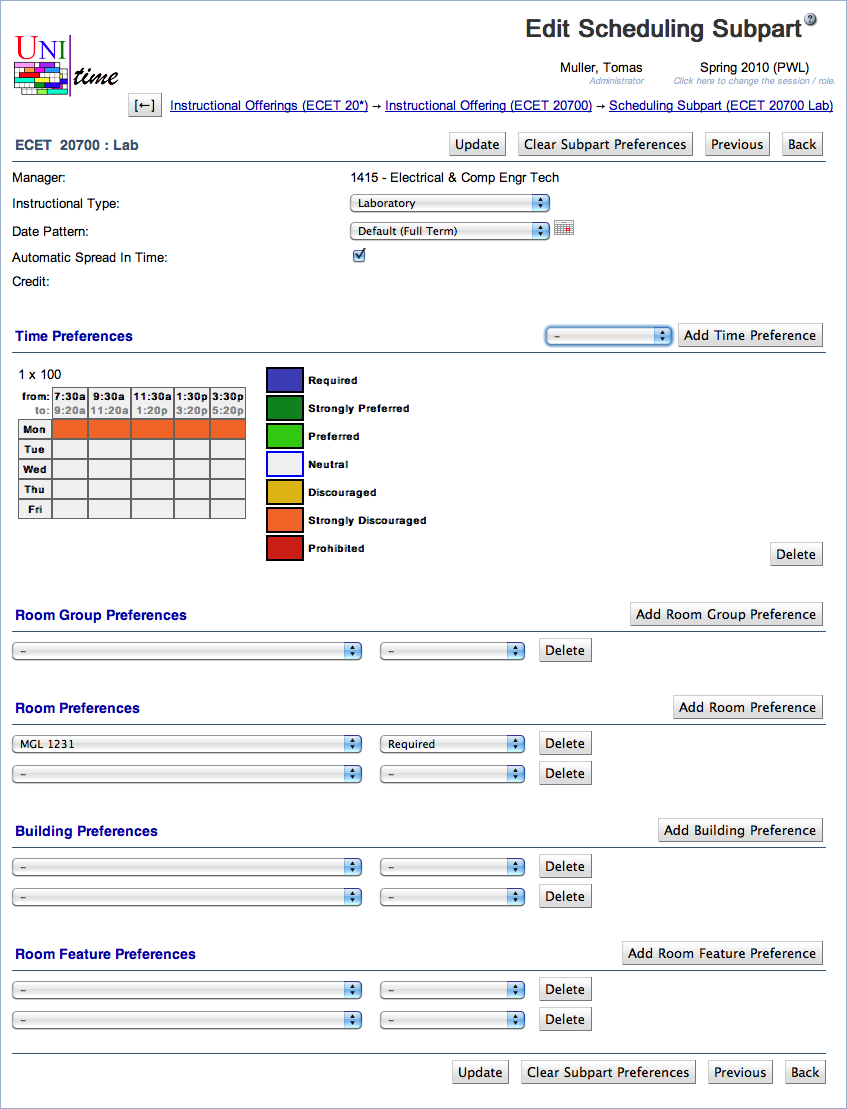
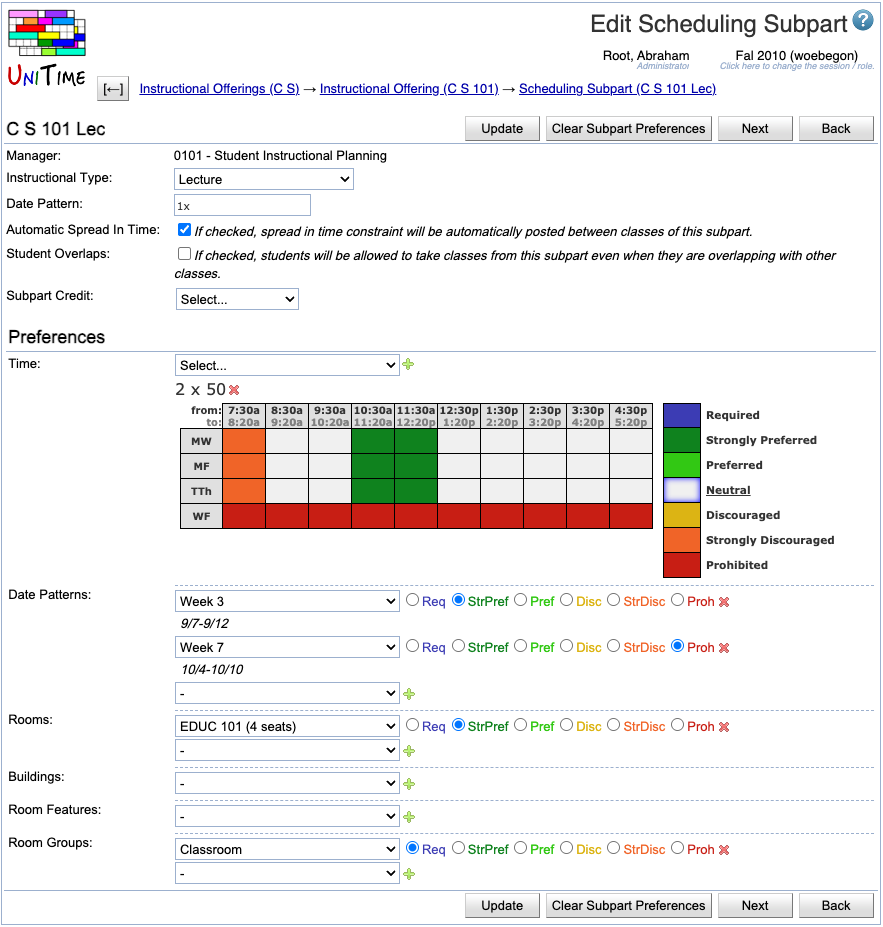
Edit Scheduling Subpart
- new screenshots, new fields, text cleanup

Changed region(s): [[0.0, 0.0, 1.0, 1.0]]

diff --git a/edit-scheduling-subpart.md b/edit-scheduling-subpart.md
@@ -6,129 +6,122 @@ title: Edit Scheduling Subpart
 
 ## Screen Description
 
-In the Scheduling Subpart Edit screen, you can change a few properties of the scheduling subpart and enter preferences which will then be applied to the classes of the scheduling subpart. The rules explaining how preferences are applied on classes are located in [Application Of Preferences](application-of-preferences). Changes made to this screen are not saved until you click on the Update, Previous, or Next button.
+In the Scheduling Subpart Edit screen, you can modify several properties of the scheduling subpart and enter preferences, which will then be applied to the classes associated with the scheduling subpart. The rules explaining how preferences are applied on classes are located in [Application Of Preferences](application-of-preferences). Changes made to this screen are not saved until you click on the Update, Previous, or Next button.
 
 ![Edit Scheduling Subpart](images/edit-scheduling-subpart-1.png){:class='screenshot'}
 
 ## Details
 
-* **Manager**
-	* Manager responsible for timetabling the classes of this scheduling subpart
-	* Editable in the [Multiple Class Setup](multiple-class-setup) screen
-
 * **Instructional Type**
-	* To change the instructional type, select the new type from the drop down list
+    * To change the instructional type, select the new type from the drop-down list
 
 * **Date Pattern**
-	* To change the date pattern, select the new date pattern from the drop down list
-	* You can click on the icon of the calendar to see which dates belong to the selected date pattern
+    * To change the date pattern, select the new date pattern from the drop-down list
+    * You can click on the icon of the calendar to see which dates belong to the selected date pattern
+    * By default, a drop-down is used. It can be changed to a searchable box by setting `unitime.classEdit.searchableDatePattern` to `true`
 
 * **Automatic Spread In Time**
-	* Checked by default, which means that when the classes of this subpart are timetabled, the solver will attempt to spread the different classes in time, so that students have more options (Spread in Time constraint is automatically created between all the classes of the subpart).
-	* Uncheck only if you need the classes to follow a different pattern, e.g., when you need some classes to be at the same time (unchecking this checkbox will prevent the solver from applying the Spread in Time constraint between these classes)
+    * Checked by default, which means that when the classes of this subpart are timetabled, the solver will attempt to spread the different classes in time so that students have more options (Spread in Time constraint is automatically created between all the classes of the subpart).
+    * Uncheck only if you need the classes to follow a different pattern, e.g., when you need some classes to be at the same time (unchecking this checkbox will prevent the solver from applying the Spread in Time constraint between these classes)
 
 * **Student Overlaps**
-	* Not checked by default
-	* If checked, students will be allowed to take classes from this subpart even when they are overlapping with other classes
+    * Not checked by default
+    * If checked, students will be allowed to take classes from this subpart even when they are overlapping with other classes
 
 * **Subpart Credit**
-	* Credit that is attributable to this subpart
-	* Described in the screen documentation for the [Edit Course Offering](edit-course-offering) screen
+    * Credit that is attributable to this subpart
+    * Only available when the subpart credit is enabled using the `tmtbl.subpart.credit.editable` property in the [Application Configuration](application-configuration).
+    * Described in the screen documentation for the [Edit Course Offering](edit-course-offering) screen
 
 ## Preferences
 
-**Time Preferences**
+**Time**
 
-* If you don't see any time grid, you need to select a time pattern from the drop down list and click **Add Time Preference** (Alt+T)
-
+* If you don't see any time grid, you need to select a time pattern from the drop-down list and click the ![Add](images/icon-add.png) plus icon
 * You can have more than one possible time pattern for your classes - in that case, perform the previous step again to add another time grid
-
 * Indicate the time preferences by filling in the time slots with appropriate colors (click on the colored square in the legend and then on the squares in the time grid that you want to fill in with this preference level)
-
-* Click on the day of week (or combination of days of week) to fill in the grid for the whole day (or combination of days)
-
+* Click on the day of the week (or combination of days of the week) to fill in the grid for the whole day (or combination of days)
 * Click on a particular time to fill in the grid for this time (across all the days)
+* Click on the upper left-hand side corner (which has "from:" and "to:") to fill in the whole time grid
+* To delete a time pattern, click on the ![Delete](images/icon-delete.png) cross icon next to the pattern name
 
-* Click on the upper left hand side corner (which has "from:" and "to:") to fill in the whole time grid
+* **Note:** Only time patterns that match the duration set on the scheduling subpart (on the [Instructional Offering Configuration](instructional-offering-configuration) screen) are available in the drop-down. When *Minutes per Week* is used, that means that the number of minutes per week set on the subpart must equal the number of meetings per week &times; minutes per meeting set on the time pattern.
 
-* To delete a time pattern, click on the **Delete** button next to it
+* **Note:** To express that, e.g., the classes of this scheduling subpart can only be taught on Monday, Wednesday, and Friday, fill in Tuesday and Thursday times as "Prohibited" (as opposed to setting Monday, Wednesday, and Friday as "Required"); this leaves you the flexibility to indicate preferred or discouraged times within Monday, Wednesday, and Friday
 
-* Note: To express that e.g. the classes of this scheduling subpart can only be taught on Monday, Wednesday, and Friday, fill in Tuesday and Thursday times as "Prohibited" (as opposed to setting Monday, Wednesday, and Friday as "Required"); this leaves you flexibility to indicate preferred or discouraged times within Monday, Wednesday, and Friday
 
-**Room Group Preferences**
+**Date Patterns**
 
-* Select a room group from the first drop down list and the preference level from the second drop down list
-
-* You can see only those room groups that are applicable to classes of the given manager (for example, for LLR classes you can see groups of large lecture rooms); for your departmental classes, you can see only those room groups that are listed in your [Room Groups](room-groups) screen - if you need to add another room group, go to the menu, to Courses → Input Data → [Room Groups](room-groups)
-
-* To add more lines for additional room group preferences, click on **Add Room Group Preference** (Alt+G)
-
-* To delete a line with a room group preference, click on the **Delete** button on that line
-
+* Select a date pattern from the first drop-down list and the preference level from one of the options
+* To add more lines for additional date pattern preferences, click the ![Add](images/icon-add.png) plus icon
+* To delete a line with a date pattern preference, click on the ![Delete](images/icon-delete.png) cross icon on that line
 * Blank lines are ignored
+
+* **Note:** Date pattern preferences are only available when a date pattern of the *Pattern Set* type is selected on the scheduling subpart (containing a list of time patterns, such as *1x* for all one-week date patterns)
 
 **Room Preferences**
 
-* Select a room from the first drop down list and the preference level from the second drop down list
-
+* Select a room from the first drop-down list and the preference level from one of the options
 * You can see only those rooms that are listed in the [Rooms](rooms) screen for the department managed by the manager listed in your Edit Scheduling Subpart screen (look at [Rooms](rooms) to see how to add new rooms to your list of departmental rooms)
-
-* To add more lines for additional room preferences, click on **Add Room Preference** (Alt+R)
-
-* To delete a line with a room preference, click on the **Delete** button on that line
-
+* To add more lines for additional room preferences, click the ![Add](images/icon-add.png) plus icon
+* To delete a line with a room preference, click on the ![Delete](images/icon-delete.png) cross icon on that line
 * Blank lines are ignored
+
+* **Note:** If a class requires two or more rooms, you can also select which room (s) the preference applies to in an additional drop-down.
 
 **Building Preferences**
 
-* Select a building from the first drop down list and the preference level from the second drop down list
-
+* Select a building from the first drop-down list and the preference level from one of the options
 * You can see only those buildings that are listed in your [Rooms](rooms) screen for the department of this scheduling subpart's manager
-
-* To add more lines for additional building preferences, click on **Add Building Preference** (Alt+D)
-
-* To delete a line with a building preference, click on the **Delete** button on that line
-
+* To add more lines for additional building preferences, click the ![Add](images/icon-add.png) plus icon
+* To delete a line with a building preference, click on the ![Delete](images/icon-delete.png) cross icon on that line
 * Blank lines are ignored
+
+* **Note:** If a class requires two or more rooms, you can also select which room (s) the preference applies to in an additional drop-down.
 
 **Room Feature Preferences**
 
-* Select a room feature from the first drop down list and the preference level from the second drop down list
-
+* Select a room feature from the first drop-down list and the preference level from one of the options
 * You can see only those room features that are listed in the [Rooms](rooms) screen
-
 * If you need to add another room feature for your departmental rooms, go to the menu, to Courses → Input Data → [Room Features](room-features)
-
-* To add more lines for additional room feature preferences, click on **Add Room Feature Preference** (Alt+F)
-
-* To delete a line with a room feature preference, click on the **Delete** button on that line
-
+* To add more lines for additional room feature preferences, click the ![Add](images/icon-add.png) plus icon
+* To delete a line with a room feature preference, click on the ![Delete](images/icon-delete.png) cross icon on that line
 * Blank lines are ignored
+
+* **Note:** If a class requires two or more rooms, you can also select which room (s) the preference applies to in an additional drop-down.
+
+**Room Group Preferences**
+
+* Select a room group from the first drop-down list and the preference level from one of the options
+* You can see only those room groups that are applicable to classes of the given manager (for example, for LLR classes you can see groups of large lecture rooms); for your departmental classes, you can see only those room groups that are listed in your [Room Groups](room-groups) screen - if you need to add another room group, go to the menu, to Courses → Input Data → [Room Groups](room-groups)
+* To add more lines for additional room group preferences, click the ![Add](images/icon-add.png) plus icon
+* To delete a line with a room group preference, click on the ![Delete](images/icon-delete.png) cross icon on that line
+* Blank lines are ignored
+
+* **Note:** If a class requires two or more rooms, you can also select which room (s) the preference applies to in an additional drop-down.
 
 ## Operations
 
 * **Update** (Alt+U)
-	* Save changes and go back to the [Scheduling Subpart Detail](scheduling-subpart-detail) screen
+    * Save changes and go back to the [Scheduling Subpart Detail](scheduling-subpart-detail) screen
 
 * **Clear Subpart Preferences** (Alt+C)
-	* Clear all the subpart preferences in this page and go back to the [Scheduling Subpart Detail](scheduling-subpart-detail) screen (where you can see that the preferences have been cleared)
+    * Clear all the subpart preferences on this page and go back to the [Scheduling Subpart Detail](scheduling-subpart-detail) screen (where you can see that the preferences have been cleared)
 
 * **Previous** (Alt+P)
-	* Save changes and go to the Edit Scheduling Subpart screen for the previous scheduling subpart
+    * Save changes and go to the Edit Scheduling Subpart screen for the previous scheduling subpart
 
 * **Next** (Alt+N)
-	* Save the preferences and go to the Edit Scheduling Subpart screen for the next scheduling subpart
+    * Save the preferences and go to the Edit Scheduling Subpart screen for the next scheduling subpart
 
 * **Back** (Alt+B)
-	* Go back to the [Scheduling Subpart Detail](scheduling-subpart-detail) screen without saving any changes
+    * Go back to the [Scheduling Subpart Detail](scheduling-subpart-detail) screen without saving any changes
 
 ## Notes
 
 **Room Groups vs. Room Features**
 
 The difference between room groups and room features is as follows:
-
 * If you require more than one room group for a given scheduling subpart, it is sufficient if the assigned room belongs to one of them
-
 * If you require more than one room feature, the assigned room has to have all of them
 
